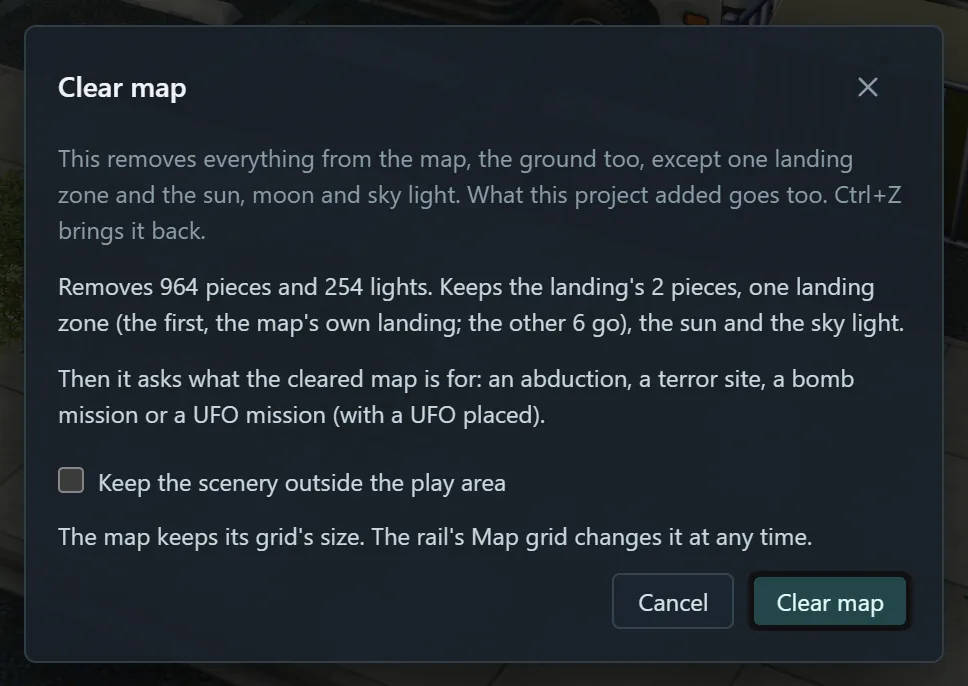
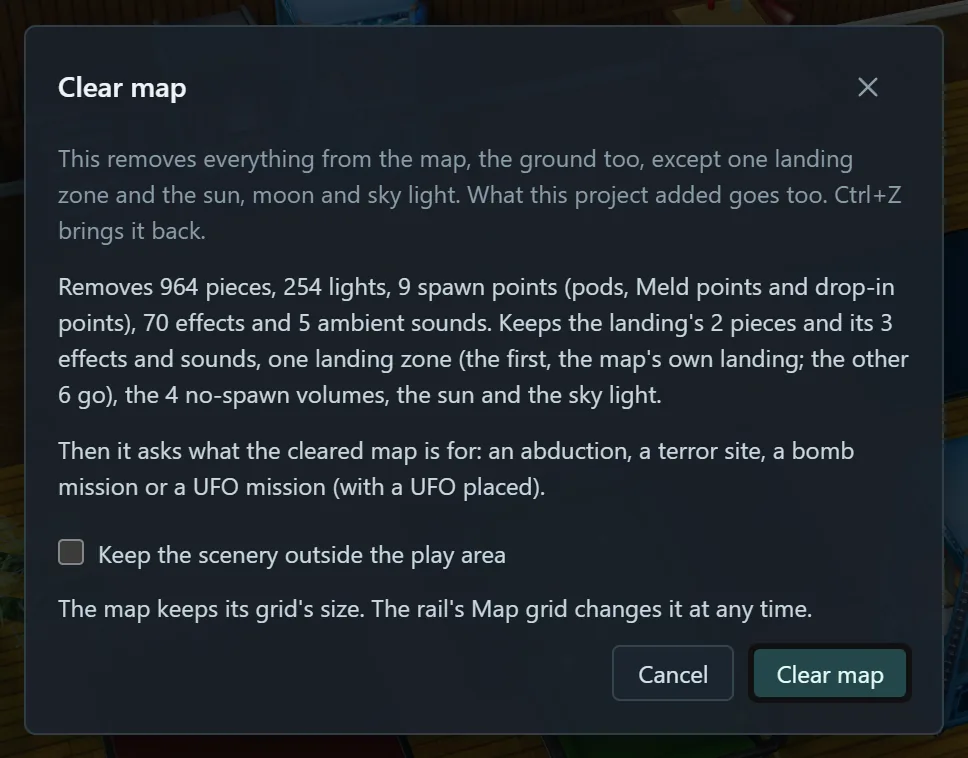
Clear map: the Skyranger stays drawn with its lights, dust and sound (the view took the kept zone, a unit off the Bar's frame, for moved: spawns.js landingUnmoved follows the Build's 4-unit rule); the map's ambient sounds go with a clear like its emitters (CLEAR_OUT, KEEP_OUTSIDE; moved ones and cop

diff --git a/tools/viewer/web/app.js b/tools/viewer/web/app.js
@@ -8,7 +8,7 @@ import { api as projectApi, memberKey, newDocument, sortState, sourceOf, stateKe
          validBuilding, tidyBuilding, BUILDING_FLOORS_MAX, groupKey, buildingKey, pruneGroups, validPrefabMark, mapBuildingId,
          BUILDING_SAME, validLandingZone, validSpawnRules, SCHEMA_VERSION as PROJECT_SCHEMA_VERSION } from './project.js';
 import { ROLES as FLAG_ROLES, lowPiece, normalize as normalizeFlags, plan as planFlags, rawOf as flagRaw, roles as flagRoles } from './piece_flags.js';
-import { ownLandings, startingZones, place as zonePlace, soldierSpots, groundOf, evacBox, ownSlots, explicitEw, turn as turnBy, yawOf, DIRECTIONS as ZONE_DIRECTIONS, GROUND as ZONE_GROUND } from './spawns.js';
+import { ownLandings, startingZones, place as zonePlace, soldierSpots, landingUnmoved, groundOf, evacBox, ownSlots, explicitEw, turn as turnBy, yawOf, DIRECTIONS as ZONE_DIRECTIONS, GROUND as ZONE_GROUND } from './spawns.js';
 import { createProjectDialog, savedWhen } from './project_files.js';
 import { playApi, renderInstalls } from './play.js';
 import { createSquadDialog, squadLine } from './squad.js';
@@ -6374,6 +6374,24 @@ function clearedSpawns() {
   }
   return { after, deleted, named, copies, volumes };
 }
+// What a clear does to the effects, sounds and lens flares standing now (effects_rules.js survivesClear, the Build's
+// clear_level): { effects (and flares) and sounds that go, landing: the landing's that stay (the Skyranger's lights,
+// dust and sound) }. `keepOutside`: the grid size of a clear that keeps the scenery outside the play area.
+function clearedEffects(keepOutside = null) {
+  const area = keepOutside ? outsideBox(keepOutside) : null;
+  const outside = (x, y) => Boolean(area) && (x < area[0] || x > area[2] || y < area[1] || y > area[3]);
+  let effects = 0, sounds = 0, landing = 0;
+  for (const root of effectRoots.values()) {
+    const o = root.userData.source;
+    if (o.added || isStream(o) || root.userData.deleted || root.userData.derivedGone) continue;
+    const ctx = { carrierMoved: root.userData.carrierMoved, moved: Boolean(root.userData.edit) };
+    if (!survivesClear(o, { ...ctx, cleared, outside: pointOutside })) continue;      // (an earlier clear's)
+    if (survivesClear(o, { ...ctx, cleared: true, outside })) { if (o.landingActor) landing++; }
+    else if (o.kind === 'sound') sounds++;
+    else effects++;
+  }
+  return { effects, sounds, landing };
+}
 const clearDialog = { root: $('clearMap'), keep: $('clearMapKeepOutside') };
 const CLEAR_KEEP_OUTSIDE = 'workshop.clearKeepOutside';
 clearDialog.keep.checked = recall(CLEAR_KEEP_OUTSIDE) === '1';
@@ -6399,9 +6417,12 @@ function clearWords(v) {
   const placeless = (data.lights ?? []).filter(l => l.layer === 'base');
   const sky = placeless.some(l => l.role === 'sky' || l.kind === 'sky'), sun = placeless.some(l => l.kind === 'directional');
   const scenery = clearDialog.keep.checked ? `, ${plural(plan.outside, 'piece')} and ${plural(plan.lightsOutside, 'light')} outside the play area` : '';
-  const sp = clearedSpawns(), points = sp.deleted.length + sp.copies;
-  $('clearMapPlan').textContent = `Removes ${plural(plan.pieces, 'piece')}, ${plural(plan.lights, 'light')}${points ? ` and ${plural(points, 'spawn point')} (pods, Meld points and drop-in points)` : ''}. `
-    + `Keeps the landing's ${plural(plan.landing, 'piece')}, `
+  const sp = clearedSpawns(), points = sp.deleted.length + sp.copies, fx = clearedEffects(clearDialog.keep.checked ? v : null);
+  const and = list => (list.length > 1 ? `${list.slice(0, -1).join(', ')} and ${list.at(-1)}` : list[0]);
+  const gone = [plural(plan.pieces, 'piece'), plural(plan.lights, 'light'), points && `${plural(points, 'spawn point')} (pods, Meld points and drop-in points)`,
+                fx.effects && plural(fx.effects, 'effect'), fx.sounds && plural(fx.sounds, 'ambient sound')].filter(Boolean);
+  $('clearMapPlan').textContent = `Removes ${and(gone)}. `
+    + `Keeps the landing's ${plural(plan.landing, 'piece')}${fx.landing ? ` and its ${fx.landing === 1 ? 'effect' : `${fx.landing} effects and sounds`}` : ''}, `
     + `${kept ? `one landing zone (${zones.findIndex(z => z.id === kept.id) === 0 ? 'the first' : `zone ${zones.findIndex(z => z.id === kept.id) + 1}`}, the map's own landing${zones.length > 1 ? `; the other ${zones.length - 1} go` : ''})` : 'no landing zone'}`
     + `${scenery}${sp.volumes ? `, the ${plural(sp.volumes, 'no-spawn volume')}` : ''}${sun ? ', the sun' : ''}${sky ? ' and the sky light' : ''}.`
     + (sp.named.length ? ` ${plural(sp.named.length, 'spawn point')} the map's script names ${sp.named.length === 1 ? 'stays' : 'stay'} (${sp.named.slice(0, 4).map(o => short(o.actor)).join(', ')}${sp.named.length > 4 ? ` and ${sp.named.length - 4} more` : ''}).` : '');
@@ -7337,14 +7358,15 @@ const effectsAvailable = () => Boolean(data) && data.scope === 'map' && !data.pr
 function effectMatrix(location, rotation, scale = [1, 1, 1]) {
   return actorMatrix(location, rotation ?? [0, 0, 0]).multiply(new THREE.Matrix4().makeScale(scale[0], scale[2], scale[1]));
 }
-// The map's own landings moved to another zone: actor path -> { from, to } for their Skyrangers' actors
+// The map's own landings moved to another zone (as the Build reckons it: spawns.js landingUnmoved): actor path ->
+// { from, to } for their Skyrangers' actors
 function landingShifts() {
   const out = new Map();
   if (!effectsAvailable()) return out;
   const { zones, own, slots } = zoneState();
   for (const [k, j] of slots) {
     const o = own[j], z = zones[k];
-    if (z.direction === o.zone.direction && z.location.every((v, i) => Math.abs(v - o.zone.location[i]) < 0.5)) continue;
+    if (landingUnmoved(z, o)) continue;
     for (const a of o.landing?.skyranger?.actors ?? []) out.set(a.path, { from: o.zone, to: z });
   }
   return out;
@@ -8249,13 +8271,14 @@ function refreshLandingZones() {
   });
   landingPanel();
 }
-// The map's own landing pieces (the frame, the Skyranger) whose zone has moved from where the map has them: the
-// zone draws them, the pieces are not shown
+// The map's own landing pieces (the frame, the Skyranger) whose zone has moved from where the map has them (as the
+// Build reckons it: spawns.js landingUnmoved, so a zone a unit off its frame keeps them): the zone draws them, the
+// pieces are not shown
 function movedLandingActors() {
   const { zones, own, slots } = zoneState(), out = new Set();
   for (const [k, j] of slots) {
     const o = own[j], z = zones[k];
-    if (z.direction === o.zone.direction && z.location.every((v, i) => Math.abs(v - o.zone.location[i]) < 0.5)) continue;
+    if (landingUnmoved(z, o)) continue;
     if (o.frame) out.add(o.frame);
     for (const a of o.landing?.skyranger?.actors ?? []) out.add(a.path);
     if (!o.landing) {     // an older export: the Skyranger nearest the frame

diff --git a/tools/release/guide/guide.html b/tools/release/guide/guide.html
@@ -1446,23 +1446,26 @@ footer { margin-top: 70px; padding-top: 18px; border-top: 1px solid var(--line);
 <p><b class="ui">Clear map…</b> in the Project menu takes every piece off the map, the ground too, so that you can
   build a new map with pieces and prefabs on an old map's light and landing. It is meant for an unchanged map, but it
   works on any.</p>
-<figure><img src="shots/clear-map.webp" width="484" height="343" alt="The Clear map window on the Bar, with its counts and the tick to keep the scenery outside the play area"></figure>
+<figure><img src="shots/clear-map.webp" width="484" height="379" alt="The Clear map window on the Bar, with its counts and the tick to keep the scenery outside the play area"></figure>
 <ul>
-  <li><b>A window comes first.</b> It warns what will go and counts it for this map: the pieces, the lights, and the
-    pieces the mission's script names. It also counts what stays:
+  <li><b>A window comes first.</b> It warns what will go and counts it for this map: the pieces, the lights, the
+    spawn points, the effects and ambient sounds, and the pieces the mission's script names. It also counts what
+    stays:
     <ul>
-      <li>the landing's own pieces (the Skyranger's frame and the drop zone);</li>
+      <li>the landing's own pieces (the drop zone's frame and the grounded Skyranger), with the Skyranger's lights,
+        dust and sound;</li>
       <li>one landing zone: the map's own first landing, used by Long War and plain EW alike (copy it for more);</li>
       <li>the sun or moon and the sky light.</li>
     </ul>
     The clear keeps the grid's size. Change it with <a href="#mapgrid">Map grid</a>, before or after.</li>
   <li><b class="ui">Keep the scenery outside the play area</b> leaves the pieces that stand wholly outside it: the
-    buildings, trees and fences the map is seen against. The lights, smoke and stains placed out there stay too. Here
+    buildings, trees and fences the map is seen against. The lights, smoke, stains and sounds placed out there stay
+    too. Here
     the play area is the map's own, and the new grid where it reaches further, so pieces the new grid brings into play
     still go. So does a piece across the edge. The window counts what stays. The tick is remembered.</li>
-  <li><b>Effects go with the clear</b>, except the landing's and the ones outside that the tick keeps; the map's
-    ambient sounds all stay. Delete a sound in the <a href="#effects">Effects view</a> if it doesn't belong in your
-    map.</li>
+  <li><b>Effects and ambient sounds go with the clear</b>, except the Skyranger's, which stay with it, and the ones
+    outside that the tick keeps. One you moved yourself in the <a href="#effects">Effects view</a> stays, and so do
+    your copies.</li>
   <li><b>The clear is one undo step.</b> <kbd>Ctrl</kbd>+<kbd>Z</kbd> brings everything back, the size too. What
     your project had added goes as well, with its groups and buildings.</li>
   <li><b>After a clear, <a href="#mapgrid">Map grid</a></b> can also make the grid smaller and lower.</li>

diff --git a/tools/viewer/web/effects_rules.js b/tools/viewer/web/effects_rules.js
@@ -271,14 +271,15 @@ export function valuesViewOnly(r) {
   return r?.can?.values ? null : (r?.why?.values ?? 'the map\'s export doesn\'t say its values can change');
 }
 
-/** Whether a cleared map keeps a record (tools/bake/native_copy.py clear_level): every sound stays; an effect or a
- *  flare goes unless it is the landing's, the project moved it itself or its carrying piece survives the clear moved
- *  (the Build keeps both), or the clear keeps the scenery outside the play area and it stands outside it. (A copy is
- *  made after the clear: it always stays.)
+/** Whether a cleared map keeps a record (tools/bake/native_copy.py clear_level): an effect, a sound or a flare goes
+ *  unless it is the landing's (the Skyranger's lights, dust and sound stay with it), the project moved it itself or
+ *  its carrying piece survives the clear moved (the Build keeps both), or the clear keeps the scenery outside the play
+ *  area and it stands outside it. (A copy is made after the clear: it always stays. Sounds stayed too before
+ *  18 November 2026, when the user found a cleared Bar's jukebox and hum left in its play area.)
  *  ctx: { cleared, outside(x, y): whether the clear keeps that point as outside scenery, carrierMoved: whether the
  *  piece that carries it is kept and moved, moved: whether the project moves it itself }. */
 export function survivesClear(r, ctx) {
-  if (!ctx?.cleared || r.kind === 'sound' || r.stream) return true;
+  if (!ctx?.cleared || r.stream) return true;
   if (r.landingActor || ctx.moved) return true;
   if (r.carriedBy && ctx.carrierMoved) return true;
   return Boolean(ctx.outside?.(r.location[0], r.location[1]));

diff --git a/tools/viewer/web/spawns.js b/tools/viewer/web/spawns.js
@@ -68,6 +68,19 @@ export function fitZone(actors, bottom = null) {
 /** Whether a zone stands where the map's own landing `own` has it (the same direction, the place within half a unit). */
 export const atOwnPlace = (zone, own) => Boolean(own) && zone.direction === own.zone.direction
   && [0, 1, 2].every(k => Math.abs(Number(zone.location[k]) - Number(own.zone.location[k])) < 0.5);
+/** Whether a zone leaves the map's own landing `own` where the map has it, as the Build reckons it
+ *  (tools/bake/native_spawns.py unmoved): the same direction, and the frame and the six soldier points within
+ *  SAME_PLACE units of the landing's own; a landing with no frame, its fitted zone within half a unit (atOwnPlace).
+ *  (The install's line a landing is joined with can stand a unit off its frame: the Bar's, 719 against 719.9998.) */
+export function landingUnmoved(zone, own) {
+  if (!own) return false;
+  if (own.fitted) return atOwnPlace(zone, own);
+  if (zone.direction !== own.zone.direction) return false;
+  const at = place(zone), mine = place(own.zone), by = Object.fromEntries((own.landing?.actors ?? []).map(a => [a.role, a]));
+  const near = (a, b) => a.every((v, j) => Math.abs(Number(v) - b[j]) <= SAME_PLACE);
+  return near(by.frame?.location ?? mine.frame.location, at.frame.location)
+    && at.soldiers.every((p, k) => near(by[`soldier${k + 1}`]?.location ?? mine.soldiers[k].location, p.location));
+}
 /** Where the squad stands for a zone: [{ location, yaw }], place()'s six, or for a landing with no frame whose zone
  *  has not moved, the landing's own points (spawns.py soldier_spots). */
 export function soldierSpots(zone, own = null) {

diff --git a/tools/viewer/scene_metadata.py b/tools/viewer/scene_metadata.py
@@ -430,6 +430,9 @@ LANDING_ROLES = {
     "SoldierSpawns_DrpshipVol_Arc5": "soldier5", "SoldierSpawns_DrpshipVol_7Arc0": "soldier6",
 }
 SKYRANGER_ROLES = {"XComLevelActor": "mesh", "Emitter": "emitter", "PointInSpace": "point"}
+# the grounded Skyranger's dust: an emitter placed beside its prefab, not in it (tools/bake/native_copy.py
+# LANDING_EXTRA), listed with the nearest Skyranger as role "dust", so a moved zone carries it with the Skyranger
+SKYRANGER_EXTRA = ("ARC_Skyranger_Ground_Periphery",)
 
 
 def prefab_pairs(p, index):
@@ -446,8 +449,8 @@ def landing_metadata(p, warn=None):
     """The map's own landings (export 22): [dict(prefab, group, actors, skyranger)], in the order the game numbers
     them (their soldier points' tags sorted as text: Group0, Group1, ...). Each actor: dict(role, path, actorClass,
     archetype, location, rotation, tag, savesRotation); `skyranger` the nearest grounded Skyranger's prefab
-    (dict(prefab, actors), roles mesh, emitter, sound, point) or None. The landing's actors have no mesh but the
-    frame, so the export's pieces don't show them."""
+    (dict(prefab, actors), roles mesh, emitter, sound, point, and dust: SKYRANGER_EXTRA's emitter nearest it) or
+    None. The landing's actors have no mesh but the frame, so the export's pieces don't show them."""
     level = "TheWorld.PersistentLevel."
     landings, skyrangers = [], []
     for index, name in enumerate(p.paths, 1):
@@ -481,6 +484,28 @@ def landing_metadata(p, warn=None):
                                tag=str(tag) if tag else None, savesRotation=rotation is not None))
         record = dict(prefab=name.rsplit(".", 1)[-1], template=template, actors=sorted(actors, key=lambda a: a["role"]))
         (landings if template.startswith(LANDING_TEMPLATE) else skyrangers).append(record)
+    # each Skyranger's dust (the user, 18 November 2026: the Skyranger and its effects stay or go together)
+    for index, name in enumerate(p.paths, 1):
+        if not skyrangers or p.cls(index) != "Emitter" or not name.startswith(level) or name.count(".") != 2:
+            continue
+        arch = p.exports[index - 1]["arch"]
+        if not arch or p.name(arch).split(".")[-1] not in SKYRANGER_EXTRA:
+            continue
+        location, rotation = p.own(index, "Location"), p.own(index, "Rotation")
+        at = [float(v) for v in location] if location else [0.0, 0.0, 0.0]
+        near = None
+        for sky in skyrangers:
+            mesh = next((a for a in sky["actors"] if a["role"] == "mesh"), None)
+            if mesh:
+                d = math.hypot(mesh["location"][0] - at[0], mesh["location"][1] - at[1])
+                if near is None or d < near[0]:
+                    near = (d, sky)
+        if near and near[0] < 2500:
+            tag = p.effective(index, "Tag")
+            near[1]["actors"] = sorted(near[1]["actors"] + [dict(
+                role="dust", path=name, actorClass="Emitter", archetype=p.name(arch), location=at,
+                rotation=[int(v) for v in rotation] if rotation else [0, 0, 0], tag=str(tag) if tag else None,
+                savesRotation=rotation is not None)], key=lambda a: a["role"])
     for landing in landings:
         tags = sorted({a["tag"] for a in landing["actors"] if a["role"].startswith("soldier") and a["tag"]})
         landing["group"] = tags[0] if len(tags) == 1 else (tags or [None])[0]

diff --git a/tools/bake/native_copy.py b/tools/bake/native_copy.py
@@ -1179,6 +1179,9 @@ CLEAR_OUT = (
     'XComBuildingVolume', 'XComFloorVolume',
     # smoke, steam, stains and glints of what is gone (F-50)
     'Emitter', 'DecalActor', 'DecalActorMovable', 'LensFlareSource',
+    # the map's ambient sounds: the jukebox, the hum of what is gone (the user, 18 November 2026: Clear left them in
+    # the play area); the landing's go with its Skyranger, kept as the landing's
+    'AmbientSound', 'AmbientSoundSimple', 'AmbientSoundSimpleToggleable', 'AmbientSoundNonLoop', 'AmbientSoundMovable',
     # path-blocking, camera-blocking and damage volumes (EXP-08 switched Bar's off for the same reason)
     'PathBlockingVolume', 'GameCameraBlockingVolume', 'BlockingVolume', 'XComDamageVolume', 'DynamicBlockingVolume',
     'XComCameraVolume', 'XComHideVolume',
@@ -1191,6 +1194,7 @@ CLEAR_OUT = (
 # What of CLEAR_OUT a clear that keeps the scenery outside the play area leaves when it stands outside (the compiler's
 # `keepOutside` box): the lights, smoke, stains and glints of the pieces it kept
 KEEP_OUTSIDE = ('Emitter', 'DecalActor', 'DecalActorMovable', 'LensFlareSource', 'PointLight', 'PointLightMovable',
+                'AmbientSound', 'AmbientSoundSimple', 'AmbientSoundSimpleToggleable', 'AmbientSoundNonLoop', 'AmbientSoundMovable',
                 'PointLightToggleable', 'SpotLight', 'SpotLightMovable', 'SpotLightToggleable', 'GeneratedMeshAreaLight',
                 'XComPointLight', 'XComSpotLight')
 # What a clear leaves (section 2's "Stay" rows), so an actor of a class on neither list is named in the report
@@ -1199,7 +1203,6 @@ CLEAR_KEEP = (
     'XComLevelVolume', 'XComCursorVolume', 'LightmassImportanceVolume', 'PostProcessVolume', 'WorldInfo', 'PlayerStart', 'PointInSpace',
     'XComSpawnPoint', 'XComSpawnPoint_Alien', 'XComAlienPod', 'XComAlienPod_Abduction', 'XComAlienPathNode',
     'XComMeldContainerSpawnPoint', 'XComNoSpawnVolume', 'TriggerVolume', 'XComRebuildWorldDataVolume',
-    'AmbientSoundSimple', 'AmbientSoundSimpleToggleable', 'AmbientSound', 'AmbientSoundNonLoop',
     'XComAlienPod_Terror', 'XComAlienPod_Hunter', 'XComAlienSpawnVolume', 'XComWaveSystem', 'XComRainVolume',
     'XComWeatherControl', 'XComSquadVisiblePoint',
     # a prefab's instance stays: the native picks the squad's spawn group from the points prefabs hold (F-96)
@@ -2306,7 +2309,7 @@ def build(src, out, variant, copies, bake=False, cache=None, receivers_near=600.
     if effect_gone:
         empty_slots(g, p, effect_gone)
     effect_moved = ({p.by_name[PL + r['effect']] for r in effect_record if r['how'] == 'moved'}
-                    | {r['export'] for r in lane_effects + lane_flares if r['how'] == 'moved'})
+                    | {r['export'] for r in lane_effects + lane_flares + lane_sounds if r['how'] == 'moved'})
     # a moved or deleted van's building and floor volumes go with it
     edited = {p.by_name[PL + e['actor']] for e in building_edits if PL + e['actor'] in p.by_name}
     hidden_buildings = hide_van_buildings(g, p, {h['export'] for h in hidden}, edited) if hidden else []

diff --git a/tools/viewer/tests/browser_smoke.py b/tools/viewer/tests/browser_smoke.py
@@ -1302,6 +1302,10 @@ def check_clear_map(page):
     text = page.locator('#clearMap').inner_text()
     assert 'Removes %d piece' % plan['pieces'] in text and 'one landing zone' in text, text
     assert page.locator('#clearMap input[type=number]').count() == 0
+    # the map's ambient sounds go with the clear, but the landing's (the user, 18 November 2026)
+    sounds = page.evaluate("[...viewer.effectRoots.values()].map(r => r.userData.source).filter(o => o.kind === 'sound' && !o.landingActor && !o.stream && !o.added).length")
+    if sounds:
+        assert ('%d ambient sound' % sounds) in text, text
     page.keyboard.press('Escape')
     # what the cleared map is for (mission types plan, D2): the dialog says it asks; a clear from the dialog asks "What
     # is this map for?", the header's abduction or terror ticked (else an abduction); OK sets the missions, one undo
@@ -1351,6 +1355,13 @@ def check_clear_map(page):
     first_own = next((z for z in before_zones if z.get('ew')), before_zones[0])
     assert len(left) == 1 and left[0]['id'] == first_own['id'] and left[0].get('lwr') is not False, left
     assert left[0].get('ew') is (True if page.evaluate('viewer.ownLandingCount()') else None), left
+    # the zone left is where the map has its landing (the Bar's line a unit off its frame), so its Skyranger isn't
+    # taken for moved and hidden; it stays with its lights, dust and sound, and no other effect or sound is left
+    assert page.evaluate('viewer.movedLandingActors()') == [], page.evaluate('viewer.movedLandingActors()')
+    page.evaluate('viewer.effectMarkers()')
+    left_fx = page.evaluate("""() => [...viewer.effectRoots.values()].filter(r => r.userData.there).map(r => r.userData.source)
+                                .filter(o => !o.added && !o.stream).map(o => [o.actor, o.kind, Boolean(o.landingActor)])""")
+    assert all(landing for _, _, landing in left_fx), left_fx
     # zones are picked in the Landing zones view only (Shift+Z): drawn over everything, a click on one (its number
     # badge here) picks it and never a piece; the normal view's clicks go to pieces; the Lights view takes over
     badge_at = """() => { let b = null; viewer.landingLayer.traverse(o => { if (o.userData.zoneBadge) b = o; });

diff --git a/tools/bake/tests/test_native_effects.py b/tools/bake/tests/test_native_effects.py
@@ -194,6 +194,21 @@ class Lanes(unittest.TestCase):
                 native_copy.build(BAR, out, 'Refused', [], effects=effects, sounds=sounds)
             self.assertIn(words, str(caught.exception))
 
+    def test_a_cleared_map_keeps_the_moved_sound_the_copies_and_the_skyrangers(self):
+        # (the user, 18 November 2026: Clear left a cleared Bar's ambient sounds in its play area) the map's own
+        # sounds go with the clear, but one the project moved, its copies and the Skyranger's
+        out = Path(self.tmp.name) / 'Cleared'
+        m = native_copy.build(BAR, out, 'Cleared', [], sounds=dict(moves=self.SOUNDS['moves'], copies=self.SOUNDS['copies'][:1]),
+                              cleared=dict(grid=[52, 39, 12]))
+        q = Package(out / 'Cleared.upk')
+        listed = set(native_copy.level_actors(q))
+        self.assertIn(q.by_name[PL + 'AmbientSoundSimple_2'], listed)               # moved by the project: kept
+        self.assertIn(q.by_name[PL + 'AmbientSoundSimpleToggleable_0'], listed)     # the Skyranger's
+        for name in ('AmbientSoundSimple_0', 'AmbientSoundSimple_1', 'AmbientSoundSimple_3', 'AmbientSoundSimple_4'):
+            self.assertNotIn(q.by_name[PL + name], listed)                          # the map's own: out with the clear
+        copy, = [r['copy'] for r in m['nativeCopies']['sounds'] if r['how'] == 'copied']
+        self.assertIn(q.by_name[PL + copy], listed)
+
 
 # ---------------------------------------------------------------- values (plan Part D, stage FX5)
 def component_bytes(p, actor, prop='ParticleSystemComponent'):

diff --git a/tools/viewer/tests/test_spawns.py b/tools/viewer/tests/test_spawns.py
@@ -125,7 +125,11 @@ class Export22(unittest.TestCase):
         self.assertEqual(roles, sorted(['frame', 'volume', 'playerStart', 'point'] + ['soldier%d' % k for k in range(1, 7)]))
         frame = next(a for a in landings[0]['actors'] if a['role'] == 'frame')
         self.assertEqual(frame['path'], 'TheWorld.PersistentLevel.XComLevelActor_6')
-        self.assertEqual(sorted(a['role'] for a in landings[0]['skyranger']['actors']), ['emitter', 'mesh', 'point', 'sound'])
+        self.assertEqual(sorted(a['role'] for a in landings[0]['skyranger']['actors']), ['dust', 'emitter', 'mesh', 'point', 'sound'])
+        # (export 35) its dust, the emitter beside the prefab, goes with it
+        dust = next(a for a in landings[0]['skyranger']['actors'] if a['role'] == 'dust')
+        self.assertEqual((dust['path'], dust['actorClass']), ('TheWorld.PersistentLevel.Emitter_0', 'Emitter'))
+        self.assertTrue(dust['archetype'].endswith('ARC_Skyranger_Ground_Periphery'))
         # the mutator's offsets from Bar's first line put every actor within two units of the map's own
         zone = spawns.parse_line(BAR_1)[1]
         at = spawns.place(zone)

diff --git a/tools/viewer/export.py b/tools/viewer/export.py
@@ -71,7 +71,9 @@ import piece_flags
 #     and listed, and the bomb's PointInSpace helper in its group (F-124); `donors` (the bomb donor's objects)
 # 34: a no-spawn volume's values (`aliens`, `civilians`: AlienNoSpawnZone, CivilianNoSpawnZone), for the Spawns view's
 #     volume edits
-EXPORT_VERSION = 34   # 21: what the editor needs to edit the map's own buildings (private/plans/done/map-buildings-editable-plan.md,
+# 35: a landing's Skyranger lists its dust (the ARC_Skyranger_Ground_Periphery emitter beside its prefab, role `dust`),
+#     so the view carries it with a moved zone as the Build does
+EXPORT_VERSION = 35   # 21: what the editor needs to edit the map's own buildings (private/plans/done/map-buildings-editable-plan.md,
                        #     E0b): each building's actor, level, isUfo, referencedBy, van, and its floor volumes' plain
 LIGHT_METADATA_VERSION = 1
 EFFECTS_METADATA_VERSION = effects_metadata.METADATA_VERSION

diff --git a/tools/bake/tests/test_clear_level.py b/tools/bake/tests/test_clear_level.py
@@ -94,6 +94,11 @@ class ClearLevel(unittest.TestCase):
         self.assertTrue(native_copy.archetype_path(self.q, evac[0]).endswith('SoldierSpawns_DrpshipVol_Arc0'))
         self.assertIn('XComLevelActor_6', self.report['landing'])          # the drop zone's frame
         self.assertIn('XComLevelActor_138', self.report['landing'])        # the grounded Skyranger
+        # its lights, dust and sound stay with it; the map's own ambient sounds go (18 November 2026)
+        for name in ('Emitter_78', 'Emitter_0', 'AmbientSoundSimpleToggleable_0'):
+            self.assertIn(name, self.report['landing'])
+        self.assertEqual(out.get('AmbientSoundSimple'), 5)
+        self.assertNotIn('AmbientSoundSimple', kept)
         print('\nclear_level on URB_Bar:', out, '\n  kept:', kept, '\n  odd:', {k: len(v) for k, v in self.report['odd'].items()})
 
     def test_one_rebuild_volume_over_the_whole_grid(self):

diff --git a/tools/bake/tests/test_native_spawns.py b/tools/bake/tests/test_native_spawns.py
@@ -101,7 +101,9 @@ class BarMoved(unittest.TestCase):
     def test_every_landing_actor_is_at_its_new_place_under_its_own_name(self):
         self.assertEqual(len(self.report), 1)
         moved = self.report[0]['actors']
-        self.assertEqual(len(moved), 14)        # ten of the landing's, four of the Skyranger's
+        self.assertEqual(len(moved), 15)        # ten of the landing's, five of the Skyranger's (its dust: export 35)
+        dust = next(a for a in moved if a['role'] == 'dust')
+        self.assertEqual(dust['path'], 'TheWorld.PersistentLevel.Emitter_0')
         for a in moved:
             i = self.q.by_name[a['path']]       # the same name
             self.assertEqual(self.q.exports[i - 1]['arch'], self.p.exports[self.p.by_name[a['path']] - 1]['arch'])
